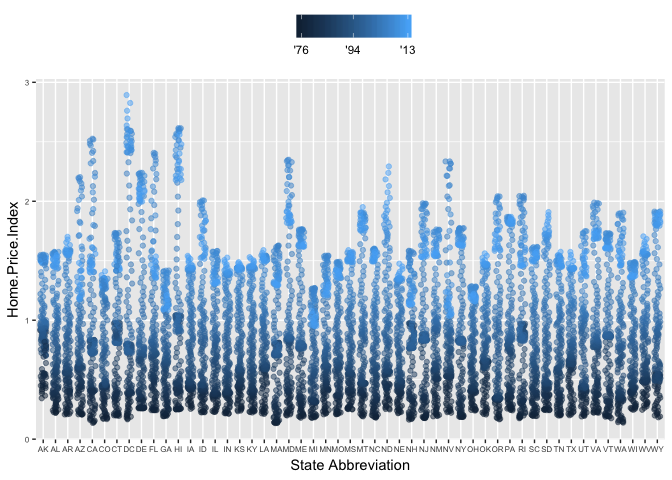
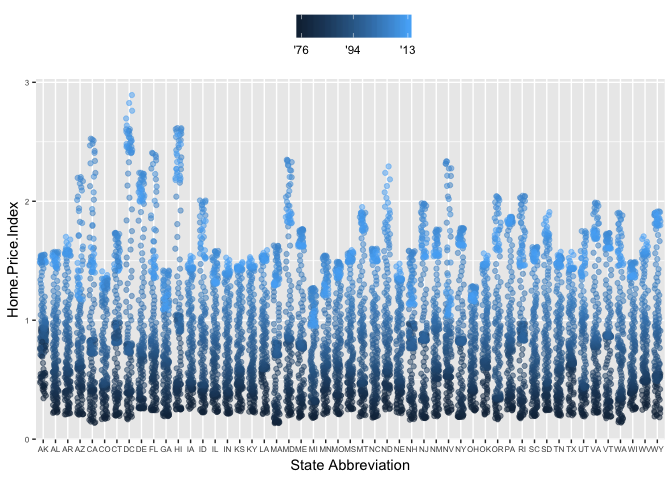
palying with different mehtods

diff --git a/ggplot/ggplot.md b/ggplot/ggplot.md
@@ -407,3 +407,15 @@ p4 +
 ```
 
 ![](ggplot_files/figure-html/unnamed-chunk-19-1.png)<!-- -->
+
+
+```r
+library(scales)
+p4 +
+  scale_color_continuous(name="",
+                         breaks = c(1976, 1994, 2013),
+                         labels = c("'76", "'94", "'13"),
+                         low = muted("blue"), high = muted("red"))
+```
+
+![](ggplot_files/figure-html/unnamed-chunk-20-1.png)<!-- -->
